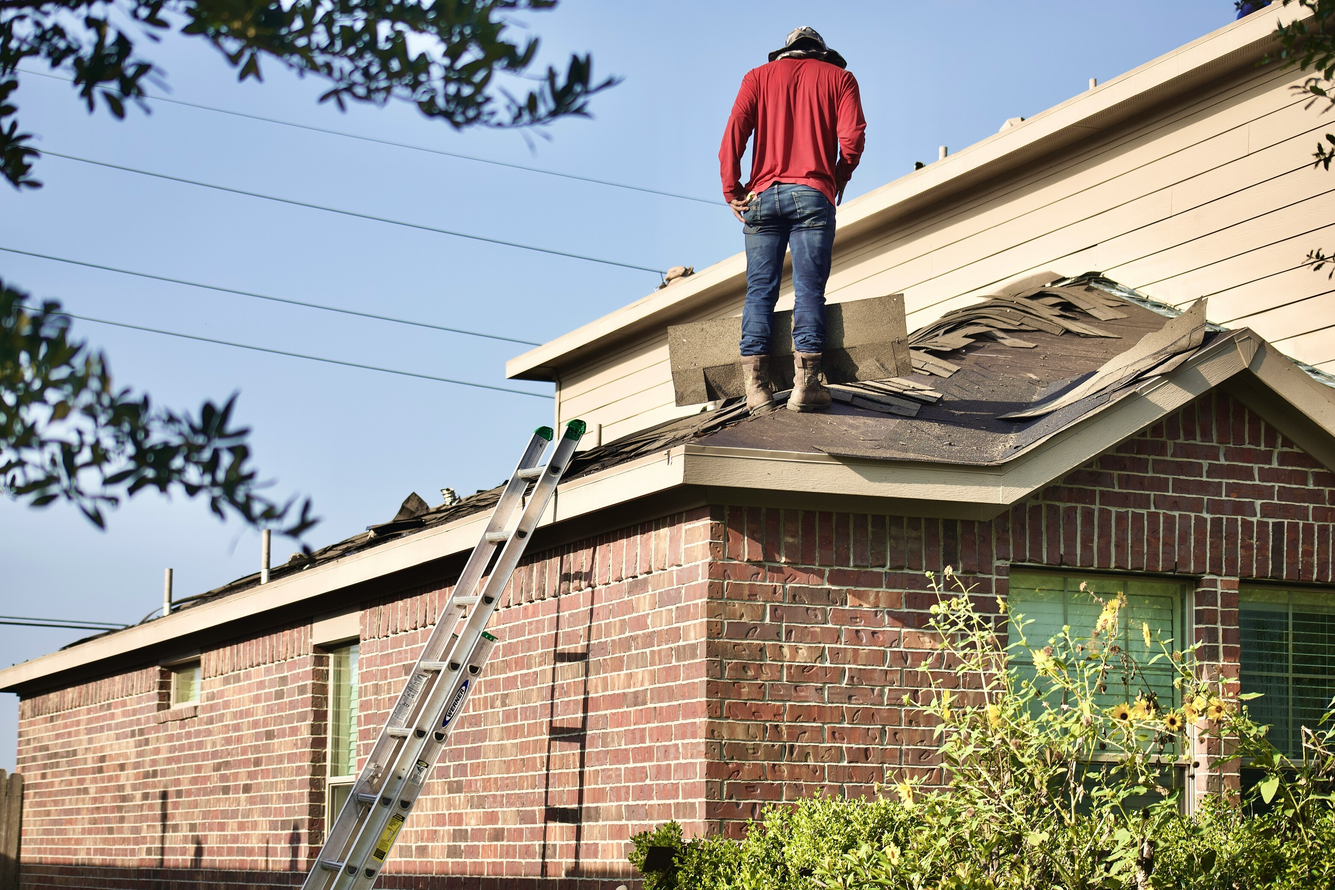
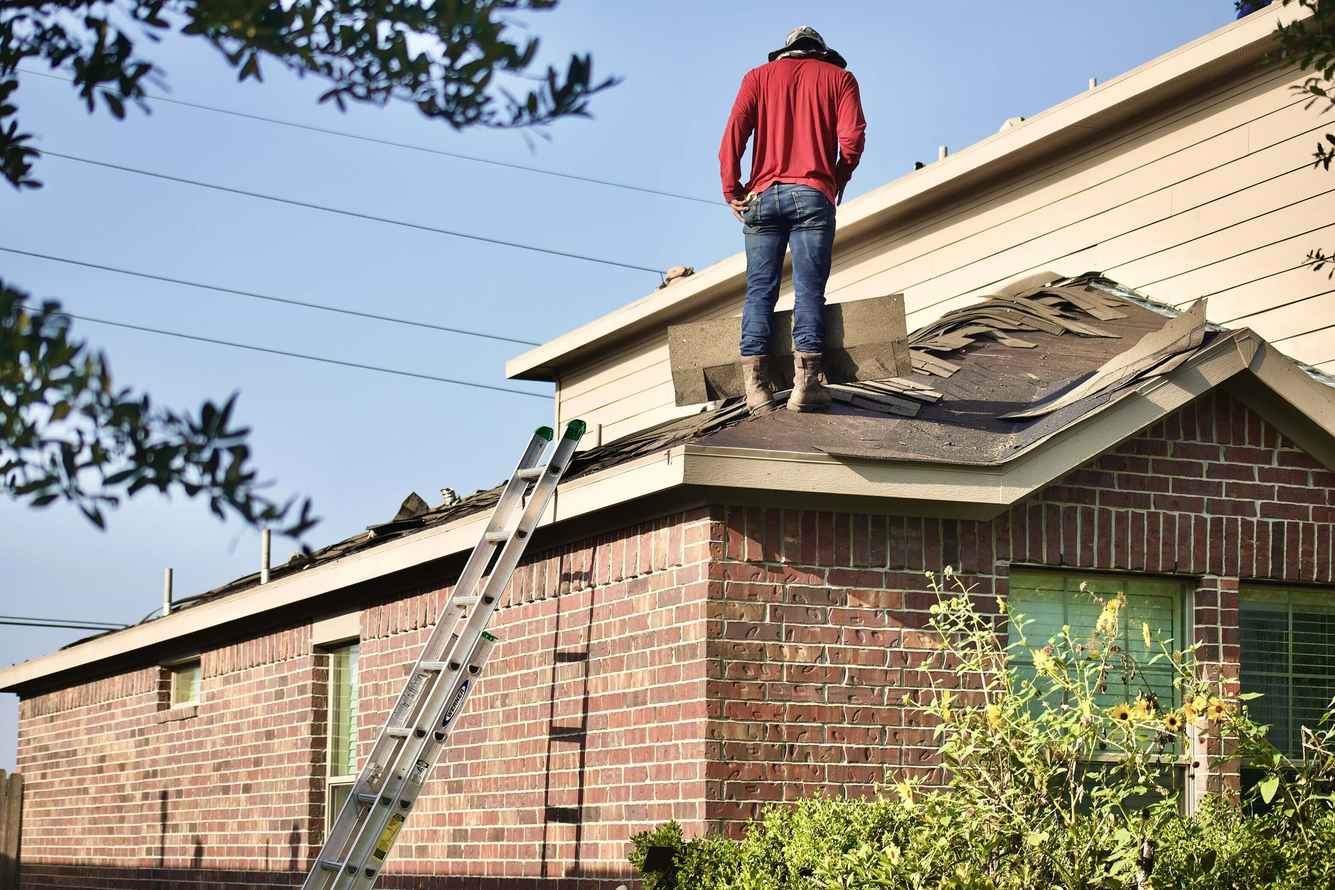
update image optimized

Changed region(s): [[0.4974, 0.875, 0.9327, 1.0], [0.9949, 0.9062, 1.0, 0.9375]]

diff --git a/src/components/HeroSection.tsx b/src/components/HeroSection.tsx
@@ -15,7 +15,7 @@ const slides = [
     description:
       "SAS Roofing is your source for high-quality roofing of any type",
     buttonText: "Read More",
-    image: "/Hero-Sec/slider-6.jpg",
+    image: "/Hero-Sec/slider-6.webp", // Converted to WebP
   },
   {
     id: 2,
@@ -23,18 +23,18 @@ const slides = [
     description:
       "We provide expert roofing installations, repairs, and inspections",
     buttonText: "Read More",
-    image: "/Hero-Sec/slider-7.png",
+    image: "/Hero-Sec/slider-7.webp", // Converted to WebP
   },
   {
     id: 3,
     title: "Your Roofing Needs For A Great Repair Job",
     description: "Reliable, professional, and affordable roofing services",
     buttonText: "Read More",
-    image: "/Hero-Sec/slider-4.jpg",
+    image: "/Hero-Sec/slider-4.webp", // Converted to WebP
   },
 ];
 
-const swipeConfidenceThreshold = 300; // lowered from 5000
+const swipeConfidenceThreshold = 300;
 const swipePower = (offset: number, velocity: number) =>
   Math.abs(offset) * velocity;
 
@@ -107,8 +107,9 @@ export default function HeroSection() {
                 src={slide.image}
                 alt={slide.title}
                 fill
-                loading={index === selectedIndex ? "eager" : "lazy"}
-                priority={index === selectedIndex}
+                sizes="100vw"
+                loading={index === 0 ? "eager" : "lazy"}
+                priority={index === 0}
                 className="object-cover"
               />
               <div

diff --git a/src/components/AboutCompanyHome.tsx b/src/components/AboutCompanyHome.tsx
@@ -33,11 +33,11 @@ export default function AboutCompany() {
         >
           <div className="relative w-full h-[300px] sm:h-[400px] md:h-[450px] lg:h-[500px] xl:h-[550px] border-2 border-[#e63a27] overflow-hidden">
             <Image
-              src="/about-us/aboutusimage.png"
+              src="/about-us/aboutusimage.jpg"
               alt="Team working on site"
               fill
               className="object-contain"
-              sizes="(max-width: 768px) 100vw, (max-width: 1280px) 50vw, 33vw"
+              sizes="(max-width: 768px) 100vw, (max-width: 1024px) 60vw, 500px"
             />
             <figcaption className="sr-only">
               Over 30 years of roofing and waterproofing experience

diff --git a/src/components/AboutCompany.tsx b/src/components/AboutCompany.tsx
@@ -46,10 +46,11 @@ export default function AboutCompany() {
             aria-label="Team members working on roofing"
           >
             <Image
-              src="/about-us/aboutusimage.png"
+              src="/about-us/aboutusimage.jpg"
               alt="SAS Roofing & Waterproofing team working on a project"
               fill
               className="object-contain mt:18 sm:mt-18 md:mt-20"
+              sizes="(max-width: 768px) 100vw, (max-width: 1280px) 50vw, 400px"
             />
             <figcaption className="sr-only">
               SAS team with over 30 years of experience

diff --git a/src/components/VideoSection.tsx b/src/components/VideoSection.tsx
@@ -62,7 +62,7 @@ const VideoSection = ({ margin }: Props) => {
             >
               <div className="flex items-center gap-3 mb-2">
                 <div className="w-6 h-px bg-white" />
-                <h5 className="text-sm uppercase font-semibold">Video Proof</h5>
+                <h2 className="text-sm uppercase font-semibold">Video Proof</h2>
               </div>
 
               <h1 className="text-3xl lg:text-5xl font-medium leading-tight mb-4 font-inter">
